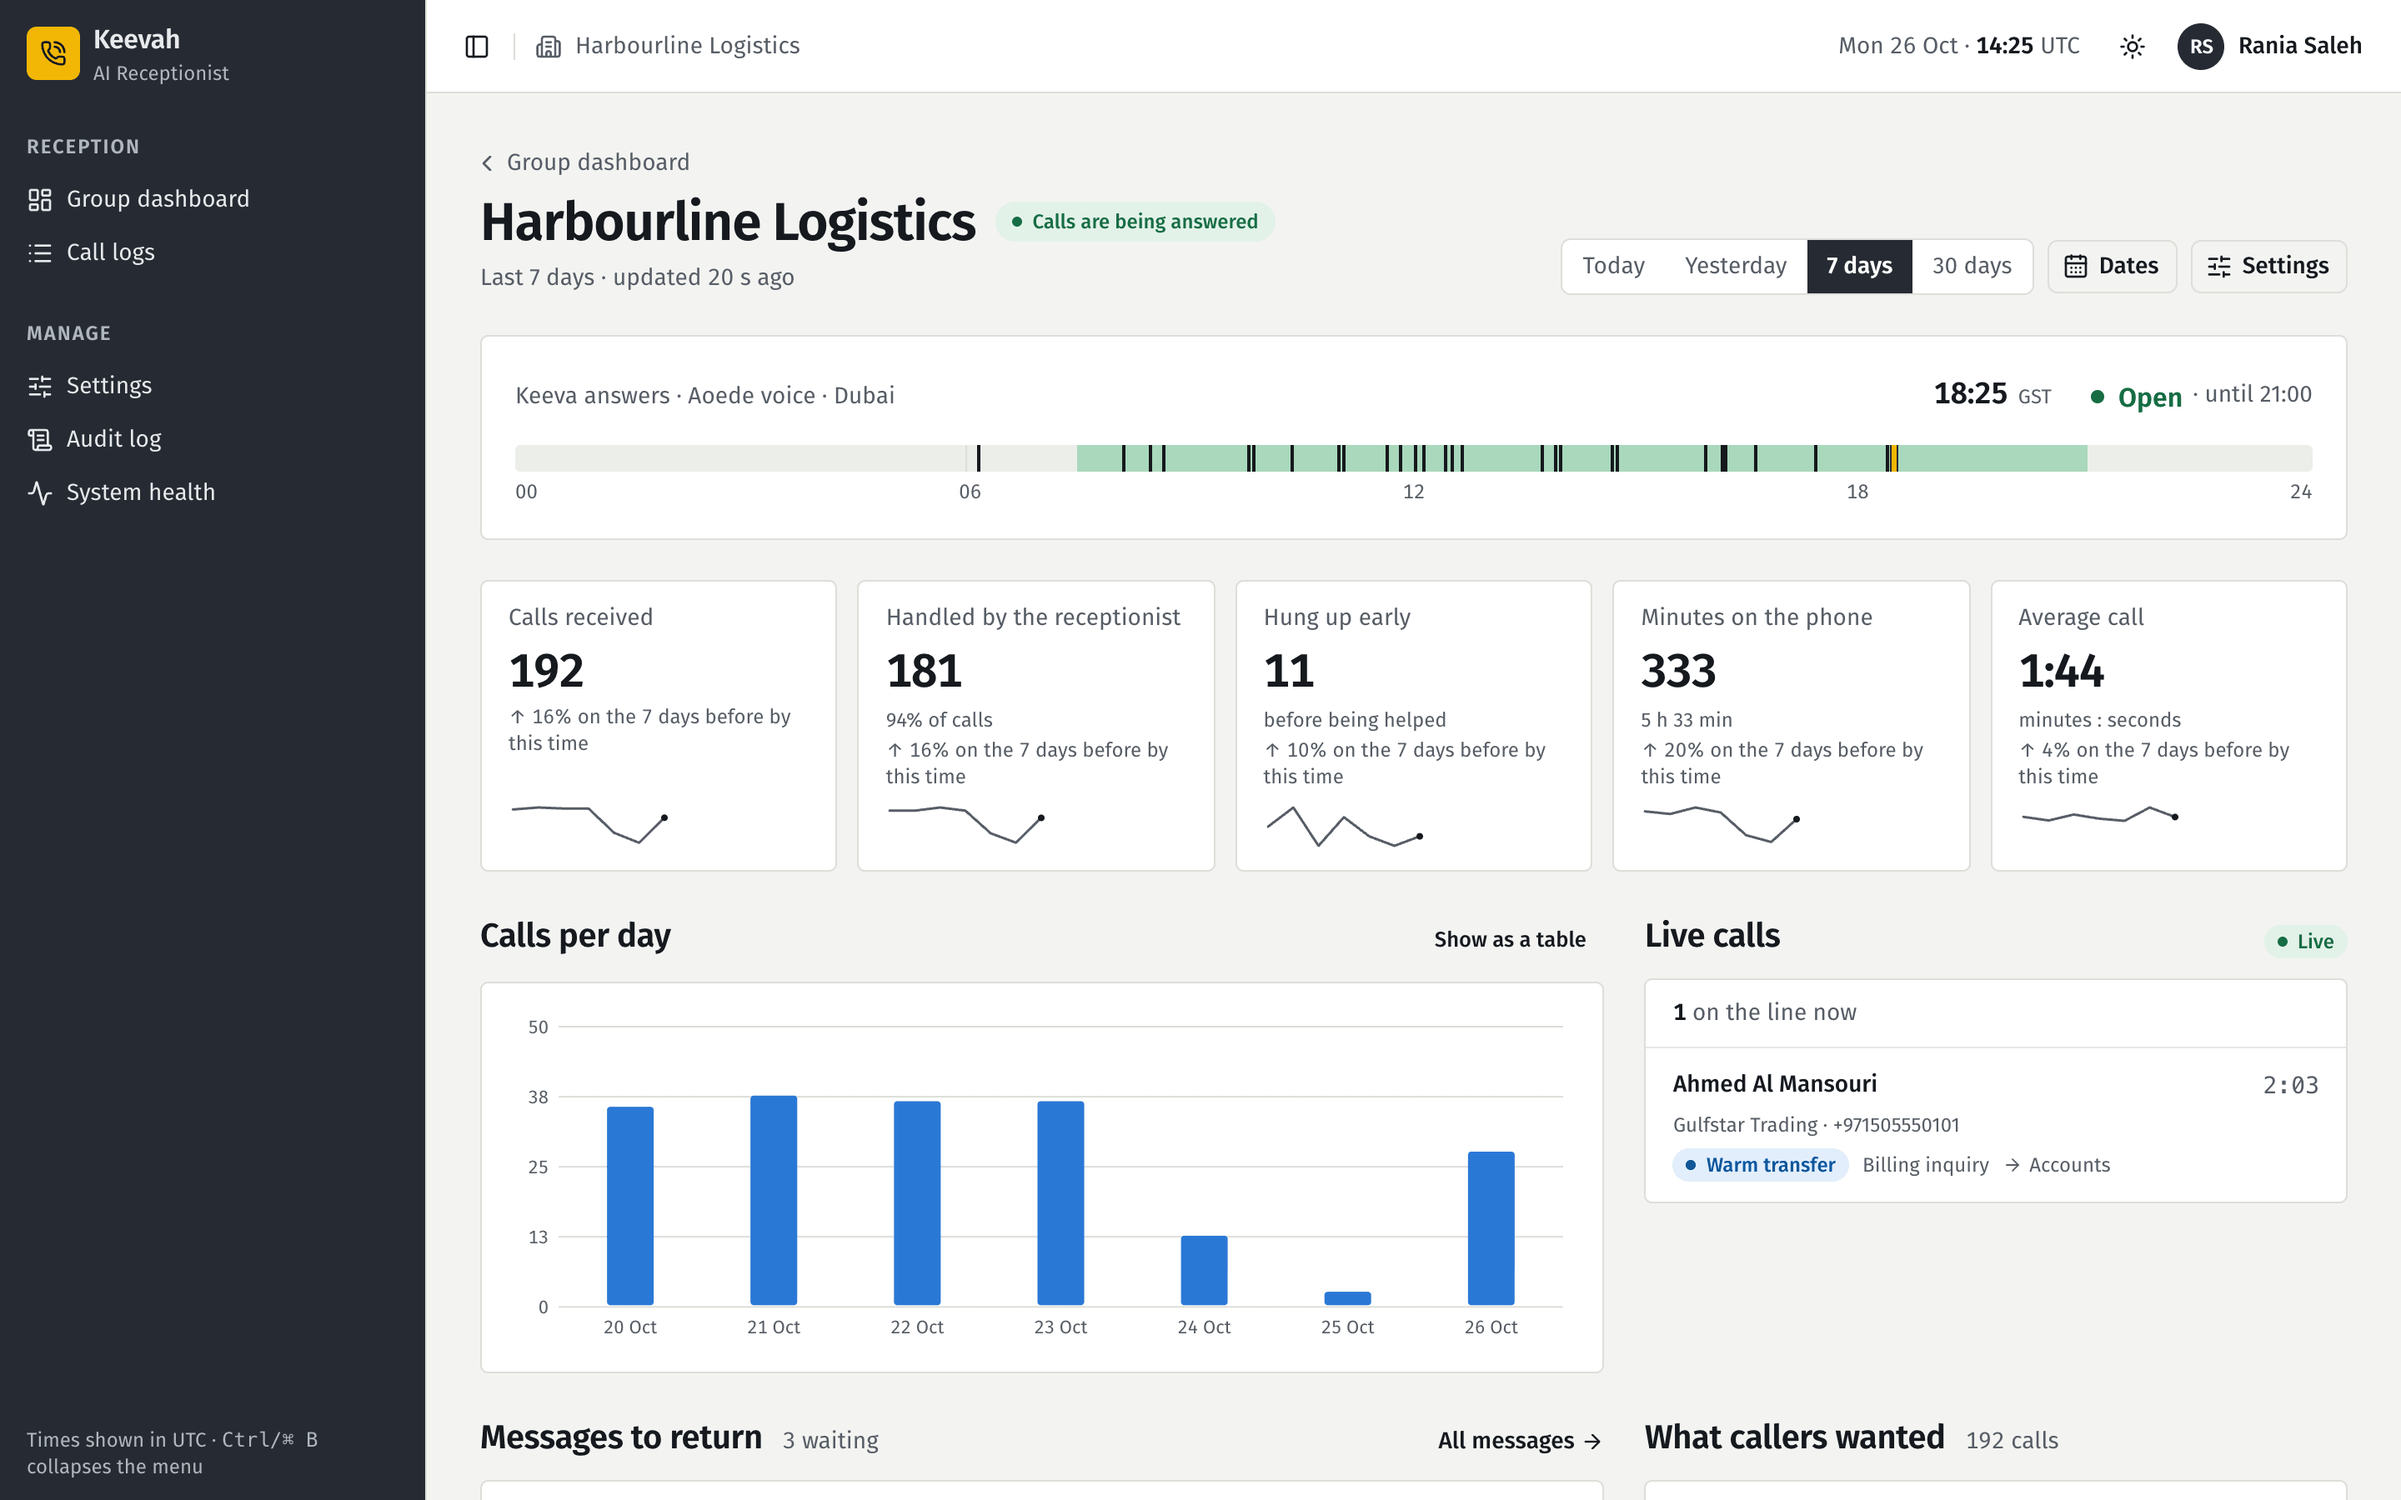
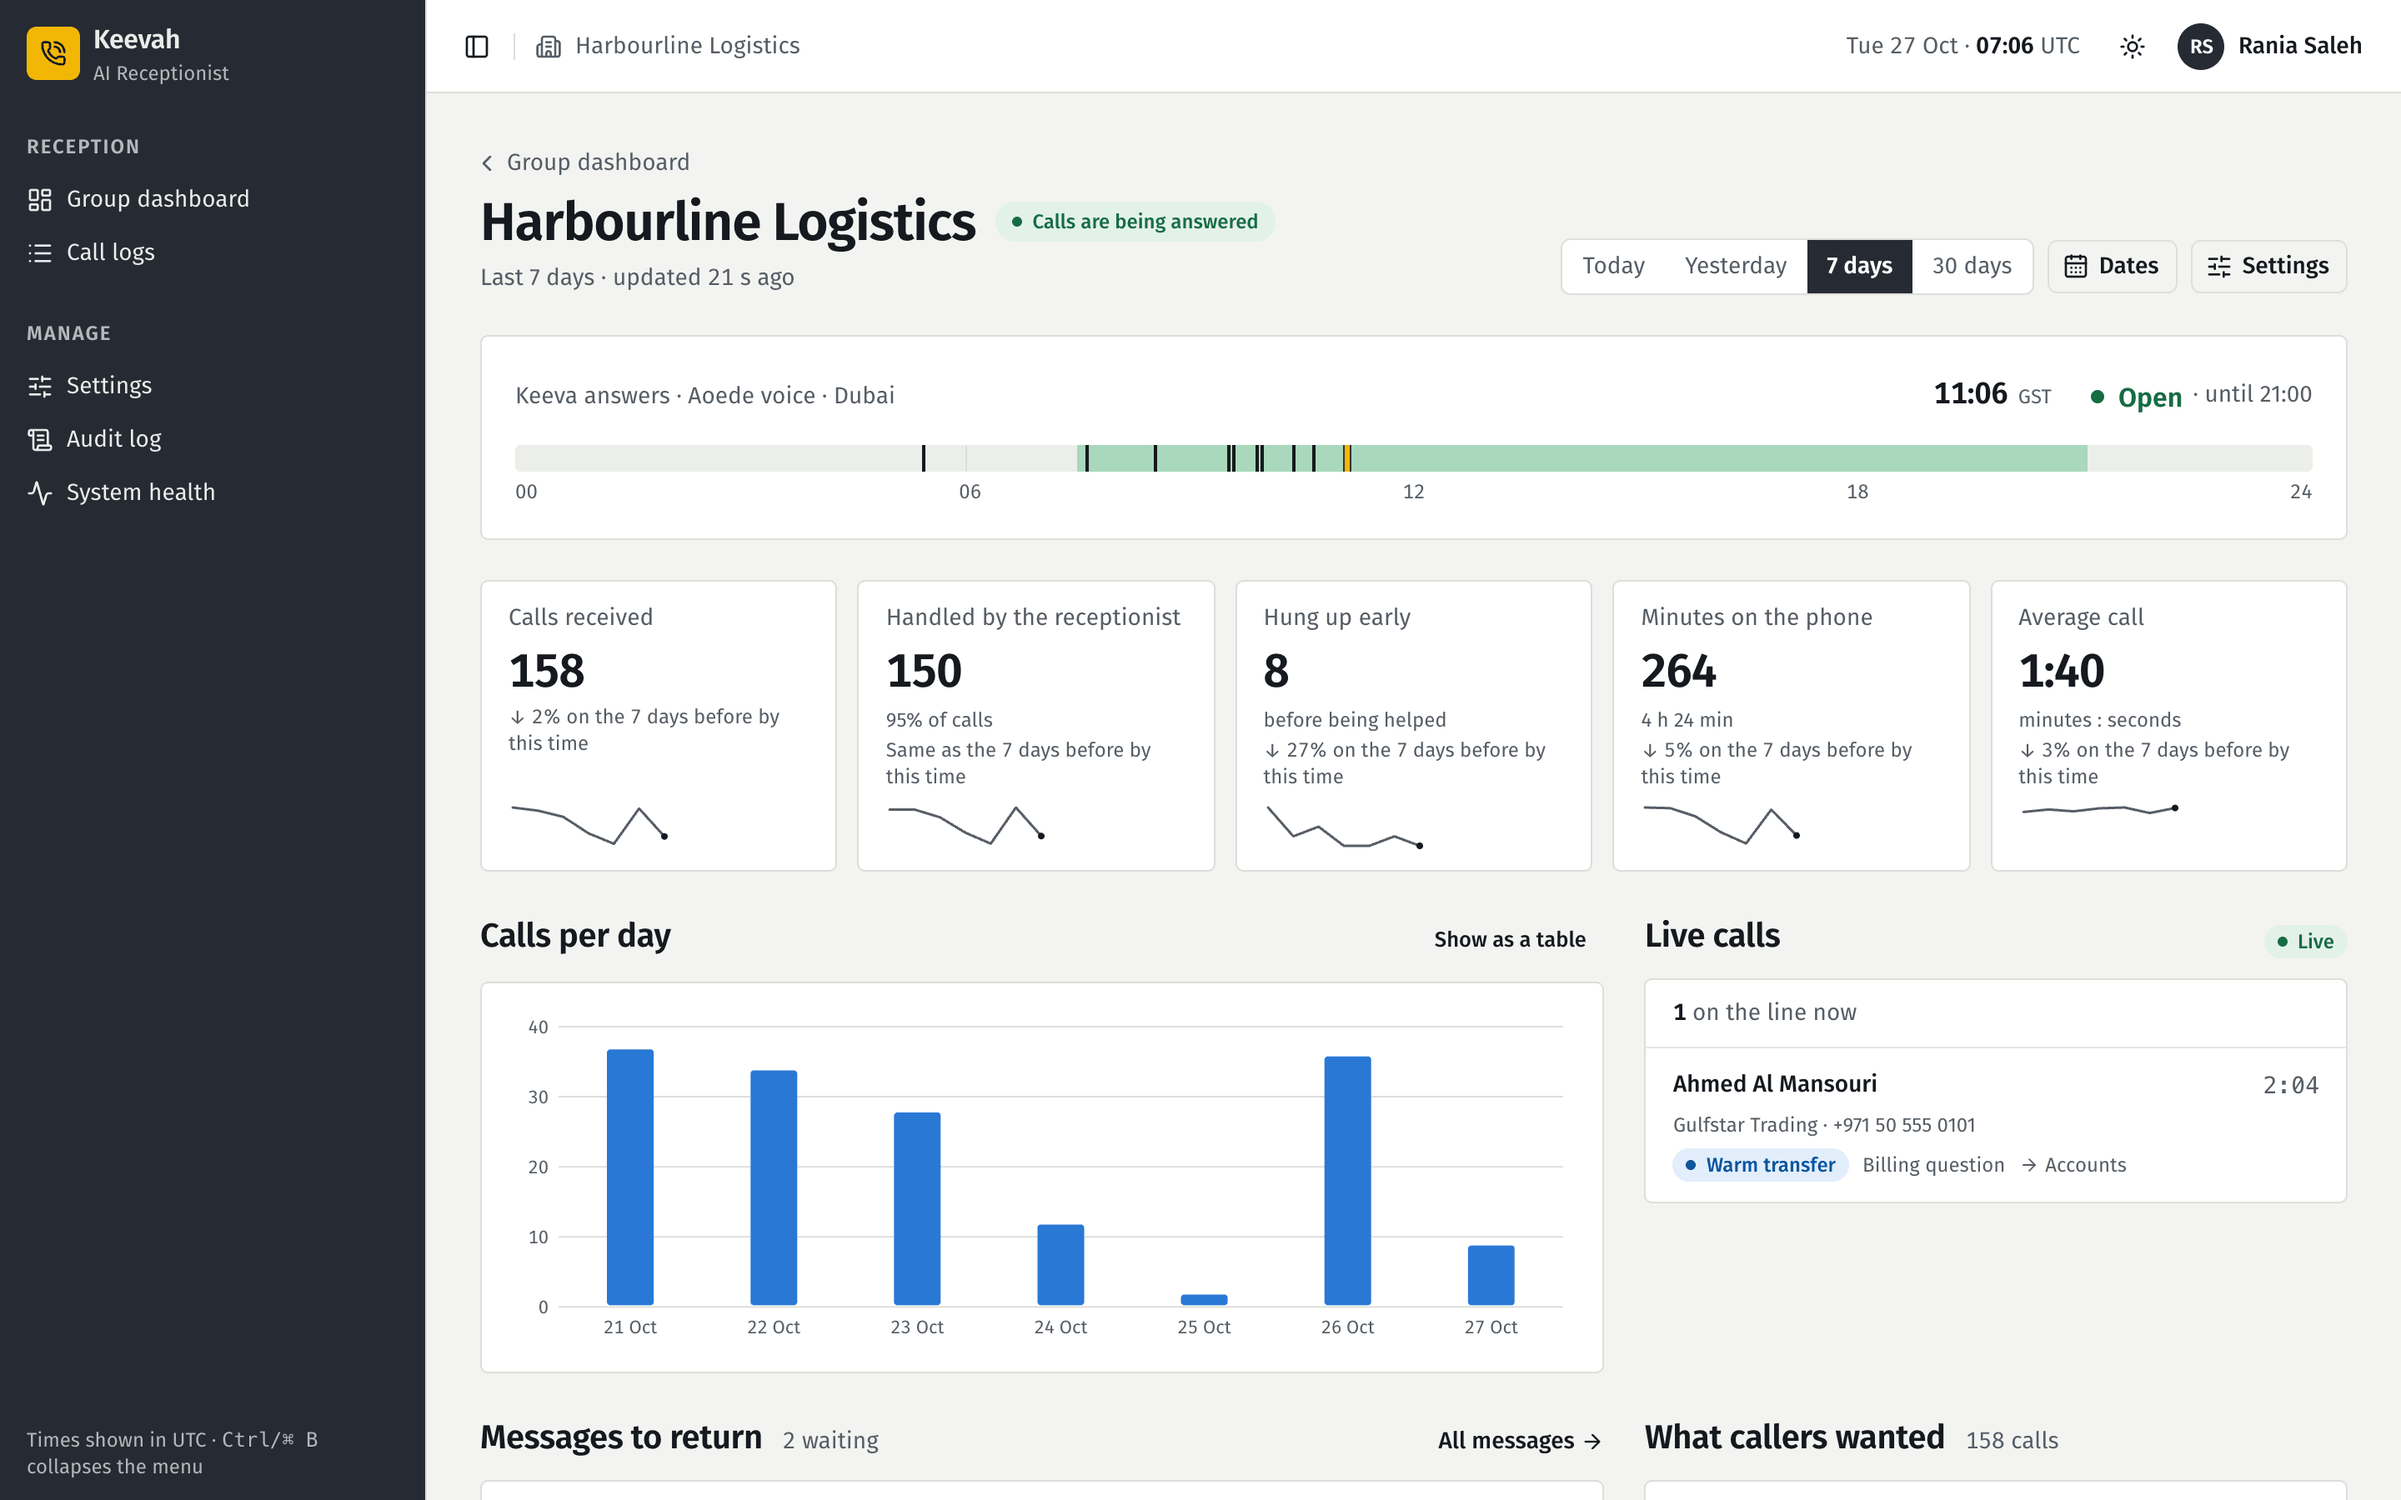
Rename: the showcase is now b34tl86/Keevah; screenshots retaken from v1.0.1
Every link points at the renamed repository. The 14 screenshots are
retaken from the v1.0.1 fixes (receptionist name in transcripts, even
chart scales, grouped phone numbers, British reason labels).

diff --git a/README.md b/README.md
@@ -4,7 +4,7 @@
 </picture>
 
 <p align="center">
-  <a href="https://github.com/b34tl86/Keevah-AI/releases/latest"><img alt="Latest release" src="https://img.shields.io/github/v/release/b34tl86/Keevah-AI?label=release&color=262b33"></a>
+  <a href="https://github.com/b34tl86/Keevah/releases/latest"><img alt="Latest release" src="https://img.shields.io/github/v/release/b34tl86/Keevah?label=release&color=262b33"></a>
   <img alt="Platforms: Windows, macOS and Linux" src="https://img.shields.io/badge/platforms-Windows%20%7C%20macOS%20%7C%20Linux-262b33">
   <a href="LICENSE"><img alt="Licence: proprietary" src="https://img.shields.io/badge/licence-Proprietary-262b33"></a>
 </p>
@@ -160,7 +160,7 @@ Every screenshot uses demo data: the organisations, people and calls in them are
 
 ## Editions and download
 
-Keevah comes as a **Preview** package for each system. Download the zip for yours from the [latest release](https://github.com/b34tl86/Keevah-AI/releases/latest), check it against `SHA256SUMS.txt` on the same page, then follow [Getting started](docs/getting-started.md).
+Keevah comes as a **Preview** package for each system. Download the zip for yours from the [latest release](https://github.com/b34tl86/Keevah/releases/latest), check it against `SHA256SUMS.txt` on the same page, then follow [Getting started](docs/getting-started.md).
 
 | Edition | File on the release page | Dashboard | Answers live calls |
 |---|---|---|---|
@@ -193,7 +193,7 @@ To run Keevah for your business, on your own phone lines, talk to [TechTrust](ht
 | — | Booking and integrations: calendars, webhooks, CRM | Later |
 | — | Android app for personal calls | Later |
 
-Nothing on the roadmap has a date, and plans can change. [ROADMAP.md](ROADMAP.md) says what each step means for you. Have an idea? Share it in [Discussions → Ideas](https://github.com/b34tl86/Keevah-AI/discussions/categories/ideas).
+Nothing on the roadmap has a date, and plans can change. [ROADMAP.md](ROADMAP.md) says what each step means for you. Have an idea? Share it in [Discussions → Ideas](https://github.com/b34tl86/Keevah/discussions/categories/ideas).
 
 ## FAQ
 
@@ -290,6 +290,6 @@ No. Keevah is proprietary software made by TechTrust. This repository is its pub
 
 Keevah is designed and built by [TechTrust](https://techtrust.ae). For pricing, or to run Keevah on your own phone lines, get in touch at [techtrust.ae](https://techtrust.ae).
 
-Questions and ideas go in [Discussions](https://github.com/b34tl86/Keevah-AI/discussions), and bugs in a released package in [Issues](https://github.com/b34tl86/Keevah-AI/issues). Security problems are reported privately: see [SECURITY.md](SECURITY.md). Everyone here follows the [code of conduct](CODE_OF_CONDUCT.md), and [SUPPORT.md](SUPPORT.md) says where to go for what.
+Questions and ideas go in [Discussions](https://github.com/b34tl86/Keevah/discussions), and bugs in a released package in [Issues](https://github.com/b34tl86/Keevah/issues). Security problems are reported privately: see [SECURITY.md](SECURITY.md). Everyone here follows the [code of conduct](CODE_OF_CONDUCT.md), and [SUPPORT.md](SUPPORT.md) says where to go for what.
 
 <sub>© 2026 TechTrust. All rights reserved. Keevah is proprietary software: this repository holds its releases, roadmap and documentation, not its source code. See [LICENSE](LICENSE). Screenshots use demo data; every organisation, person and phone number in them is made up. Grandstream, Yeastar, Asterisk and Google Gemini are trademarks of their respective owners.</sub>

diff --git a/CONTRIBUTING.md b/CONTRIBUTING.md
@@ -4,19 +4,19 @@ Thanks for wanting to make Keevah better. Its source code is private, so this re
 
 ## Report a bug
 
-1. Check that it still happens on the [latest release](https://github.com/b34tl86/Keevah-AI/releases/latest).
-2. Search the [existing issues](https://github.com/b34tl86/Keevah-AI/issues?q=is%3Aissue) in case someone has already reported it. If they have, add what you know there.
-3. Otherwise, open a [bug report](https://github.com/b34tl86/Keevah-AI/issues/new/choose) and fill in the form: your version and system, the steps, what you expected and what happened instead.
+1. Check that it still happens on the [latest release](https://github.com/b34tl86/Keevah/releases/latest).
+2. Search the [existing issues](https://github.com/b34tl86/Keevah/issues?q=is%3Aissue) in case someone has already reported it. If they have, add what you know there.
+3. Otherwise, open a [bug report](https://github.com/b34tl86/Keevah/issues/new/choose) and fill in the form: your version and system, the steps, what you expected and what happened instead.
 
 Keep customer data out of it: no callers' names or numbers, transcripts, call recordings, passwords or keys.
 
 ## Suggest an idea
 
-Start a discussion in [Ideas](https://github.com/b34tl86/Keevah-AI/discussions/categories/ideas). Say what you're trying to do and why it matters to you; a real example, with the names changed, helps most. A 👍 on an idea that's already there counts too. Ideas help shape the [roadmap](ROADMAP.md).
+Start a discussion in [Ideas](https://github.com/b34tl86/Keevah/discussions/categories/ideas). Say what you're trying to do and why it matters to you; a real example, with the names changed, helps most. A 👍 on an idea that's already there counts too. Ideas help shape the [roadmap](ROADMAP.md).
 
 ## Ask a question
 
-Ask in [Discussions → Q&A](https://github.com/b34tl86/Keevah-AI/discussions/categories/q-a).
+Ask in [Discussions → Q&A](https://github.com/b34tl86/Keevah/discussions/categories/q-a).
 
 ## Report a security problem
 

diff --git a/docs/getting-started.md b/docs/getting-started.md
@@ -15,7 +15,7 @@ This guide takes you from download to signing in, on Windows, macOS or Linux.
 
 ## 1. Download
 
-Open the [latest release](https://github.com/b34tl86/Keevah-AI/releases/latest) and download two files into the same folder: the zip for your system, and `SHA256SUMS.txt`.
+Open the [latest release](https://github.com/b34tl86/Keevah/releases/latest) and download two files into the same folder: the zip for your system, and `SHA256SUMS.txt`.
 
 | System | File |
 |---|---|
@@ -57,7 +57,7 @@ cd ~/Downloads
 sha256sum -c SHA256SUMS.txt --ignore-missing
 ```
 
-On macOS and Linux, a good download prints your zip's name followed by `OK`. If you don't see `OK`, don't open the zip. Download it again, and if it still doesn't match, [report it](https://github.com/b34tl86/Keevah-AI/issues/new/choose).
+On macOS and Linux, a good download prints your zip's name followed by `OK`. If you don't see `OK`, don't open the zip. Download it again, and if it still doesn't match, [report it](https://github.com/b34tl86/Keevah/issues/new/choose).
 
 ## 3. Unpack and open Keevah
 
@@ -143,8 +143,8 @@ Once it's connected, the **test call** on the Setup page proves the whole path: 
 
 ## Getting help
 
-- **Questions:** [Discussions → Q&A](https://github.com/b34tl86/Keevah-AI/discussions/categories/q-a).
-- **Bugs in a released package:** [open a bug report](https://github.com/b34tl86/Keevah-AI/issues/new/choose).
+- **Questions:** [Discussions → Q&A](https://github.com/b34tl86/Keevah/discussions/categories/q-a).
+- **Bugs in a released package:** [open a bug report](https://github.com/b34tl86/Keevah/issues/new/choose).
 - **Sales and commercial support:** [TechTrust](https://techtrust.ae).
 
 Please keep customer data out of anything you post: no callers' names or numbers, transcripts, recordings, passwords or keys.

diff --git a/SUPPORT.md b/SUPPORT.md
@@ -2,9 +2,9 @@
 
 | You want to… | Go to |
 |---|---|
-| Ask how to do something, or how Keevah works | [Discussions → Q&A](https://github.com/b34tl86/Keevah-AI/discussions/categories/q-a) |
-| Suggest an idea, or back someone else's | [Discussions → Ideas](https://github.com/b34tl86/Keevah-AI/discussions/categories/ideas) |
-| Report a bug in a released package | [Issues → Bug report](https://github.com/b34tl86/Keevah-AI/issues/new/choose) |
+| Ask how to do something, or how Keevah works | [Discussions → Q&A](https://github.com/b34tl86/Keevah/discussions/categories/q-a) |
+| Suggest an idea, or back someone else's | [Discussions → Ideas](https://github.com/b34tl86/Keevah/discussions/categories/ideas) |
+| Report a bug in a released package | [Issues → Bug report](https://github.com/b34tl86/Keevah/issues/new/choose) |
 | Report a security problem | Privately, as [SECURITY.md](SECURITY.md) explains. Never in public. |
 | Talk about pricing, buying Keevah, or commercial support | [TechTrust](https://techtrust.ae) |
 

diff --git a/CHANGELOG.md b/CHANGELOG.md
@@ -1,6 +1,6 @@
 # Changelog
 
-What's new in each Keevah release, in plain words. Downloads and release notes are on the [releases page](https://github.com/b34tl86/Keevah-AI/releases).
+What's new in each Keevah release, in plain words. Downloads and release notes are on the [releases page](https://github.com/b34tl86/Keevah/releases).
 
 The format follows [Keep a Changelog](https://keepachangelog.com/en/1.1.0/), and Keevah uses [Semantic Versioning](https://semver.org/).
 
@@ -103,5 +103,5 @@ The format follows [Keep a Changelog](https://keepachangelog.com/en/1.1.0/), and
 
 - In production, Keevah won't start while the example secrets are still in place.
 
-[1.0.0]: https://github.com/b34tl86/Keevah-AI/releases/tag/v1.0.0
-[0.9.0]: https://github.com/b34tl86/Keevah-AI/releases/tag/v0.9.0
+[1.0.0]: https://github.com/b34tl86/Keevah/releases/tag/v1.0.0
+[0.9.0]: https://github.com/b34tl86/Keevah/releases/tag/v0.9.0

diff --git a/ROADMAP.md b/ROADMAP.md
@@ -14,7 +14,7 @@ Where Keevah is, and where it's heading.
 
 Nothing here has a date or is a promise. The order and the details can change as we learn from the people who use Keevah. What has shipped is in the [changelog](CHANGELOG.md).
 
-Follow along on the **Keevah Roadmap** board under this repository's [Projects](https://github.com/b34tl86/Keevah-AI/projects) tab, and tell us what you need in [Discussions → Ideas](https://github.com/b34tl86/Keevah-AI/discussions/categories/ideas). A 👍 on an idea that's already there counts too.
+Follow along on the **Keevah Roadmap** board under this repository's [Projects](https://github.com/b34tl86/Keevah/projects) tab, and tell us what you need in [Discussions → Ideas](https://github.com/b34tl86/Keevah/discussions/categories/ideas). A 👍 on an idea that's already there counts too.
 
 ## Shipped
 

diff --git a/SECURITY.md b/SECURITY.md
@@ -12,7 +12,7 @@
 
 Please report security problems privately. **Never open a public issue or discussion about one.**
 
-- **On GitHub:** use [private vulnerability reporting](https://github.com/b34tl86/Keevah-AI/security/advisories/new). You'll also find it under this repository's **Security** tab, as **Report a vulnerability**. Only you and TechTrust can see the report.
+- **On GitHub:** use [private vulnerability reporting](https://github.com/b34tl86/Keevah/security/advisories/new). You'll also find it under this repository's **Security** tab, as **Report a vulnerability**. Only you and TechTrust can see the report.
 - **Or through TechTrust:** get in touch at [techtrust.ae](https://techtrust.ae) and say it's a security report.
 
 Tell us:
